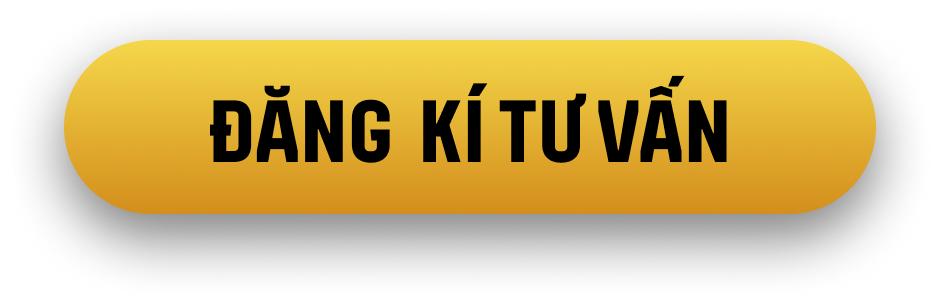
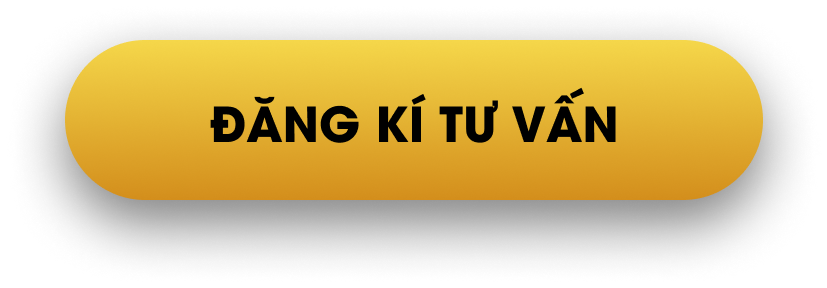
update popup

Changed region(s): [[0.2116, 0.25, 0.786, 0.5625], [0.0605, 0.125, 0.9371, 0.7188]]

diff --git a/css/style.css b/css/style.css
@@ -2059,7 +2059,7 @@ p.error {
   }
 }
 .color-yellow{
-  color: #FFD126;
+  color: #F4B81A;
 }
 .poup-sale{
   padding: 0;
@@ -2089,35 +2089,51 @@ p.error {
   text-align: center;
   border: 1px solid #FFF;
   border-bottom: none;
-  padding: 1.5em;
+  padding: 0.5em 1.2em;
   background: rgba(255, 255, 255, 0.4);
+  box-shadow: 0px -1px 1px -1px red;
 }
  .poup-sale .blk .inner{
   box-shadow: -1px -1px 1px #FFF;
  }
  .poup-sale .top{
-    margin: 0 0 1em;
+    margin-bottom: 1.3em;
+    margin-top: -1.3em;
  }
  .poup-sale  p{
   margin-bottom: 0.2em;
  }
  .poup-sale .blk .color-white{
   font-size: 0.8vw;
-   font-family: "Be Vietnam Pro", sans-serif;
+/*   font-family: "Be Vietnam Pro", sans-serif;*/
+ }
+ .poup-sale  .top .text-1{
+  margin-bottom: 0.3em;
+
  }
 .poup-sale .color-yellow{
-  font-family: "Be Vietnam Pro", sans-serif;
-  font-weight: bold;
+/*  font-family: "Be Vietnam Pro", sans-serif;*/
+  font-family: "UTMAvoBold";
   font-size: 1.2vw;
-}
-.poup-sale .text-1,.text-3{
-  font-size: 1.5vw;
-   font-family: "Libre Bodoni", serif;
+  color: #F4B81A;
+  
 }
 .poup-sale .text-2{
-   font-family: "Londrina Solid", sans-serif;
-   font-weight: 700;
-  font-size: 2.9vw;
+  font-family: "UTMAvoBold";
+}
+.poup-sale .text-2,.text-3{
+  margin: 0;
+  font-size: 1.4vw;
+  line-height: 1.2em;
+/*   font-family: "Libre Bodoni", serif;*/
+}
+.poup-sale .hl{
+  text-decoration: underline;
+}
+.poup-sale .text-1{
+/*   font-family: "Londrina Solid", sans-serif;*/
+   font-family: "UTMAvoBold";
+  font-size: 2.2vw;
   line-height: 1em;
 }
 .poup-sale .fancybox-button svg{
@@ -2127,14 +2143,17 @@ p.error {
   .poup-sale{
     width: 90%;
   }
-  .poup-sale .text-1, .text-3{
-    font-size: 2.2vw;
+  .poup-sale .top .text-1{
+    font-size: 5.9vw;
+  }
+  .poup-sale .text-2, .text-3{
+    font-size: 3.7vw;
   }
   .poup-sale .blk .color-white{
     font-size: 2.2vw;
   }
   .poup-sale .color-yellow{
-    font-size: 3.5vw;
+    font-size: 3.7vw;
   }
   .poup-sale .button-register{
     width: 90%;

diff --git a/trang-chu.html b/trang-chu.html
@@ -589,17 +589,17 @@
   <img class="bg" src="./images/bg-popup.jpg">
   <div class="content">
     <div class="top">
-      <p class="text-1">Ưu đãi Học phí</p>
+      <p class="text-1 color-yellow">Ưu đãi Học phí</p>
       <p class="text-2"> 14,000,000 VND</p>
       <p class="text-3">học phí tiêu chuẩn</p>
     </div>
     <div class="blk blk-1">
-      <p class="color-white">Khuyến mãi Early Bird</p>
+      <p class="color-white hl">Khuyến mãi Early Bird</p>
       <p class="color-yellow">Giảm 30% (chỉ còn 9,800,000đ) </p>
       <p class="color-white">với học viên đăng ký khóa học trước ngày 13/08/2024</p>
     </div>
     <div class="blk blk-2">
-      <p class="color-white">Giảm thêm 5%</p>
+      <p class="color-white hl">Giảm thêm 5%</p>
       <p class="color-yellow">chỉ còn 9,100,000đ </p>
       <p class="color-white">khi học viên đăng ký theo nhóm từ 2 người trở lên</p>
     </div>
